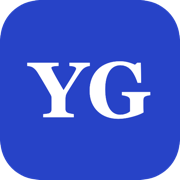
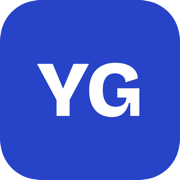
feat: başlık ailesi Bricolage Grotesque'e geçti — afiş ağırlığında başlıklar
--serif değişkeni tek noktadan değişti (tarihî ad korundu); hero/forum
manşeti/logo 800 ağırlığa çıktı. Favicon, ikonlar ve og kartı yeni
fontla yeniden üretildi.

diff --git a/index.html b/index.html
@@ -18,7 +18,7 @@
   <meta name="twitter:card" content="summary_large_image">
   <link rel="preconnect" href="https://fonts.googleapis.com">
   <link rel="preconnect" href="https://fonts.gstatic.com" crossorigin>
-  <link href="https://fonts.googleapis.com/css2?family=Besley:ital,wght@0,400..900;1,400..700&family=IBM+Plex+Sans:wght@400;500;600;700&display=swap" rel="stylesheet">
+  <link href="https://fonts.googleapis.com/css2?family=Bricolage+Grotesque:opsz,wght@12..96,400..800&family=IBM+Plex+Sans:wght@400;500;600;700&display=swap" rel="stylesheet">
   <link rel="stylesheet" href="css/styles.css">
   <script type="application/ld+json">{"@context":"https://schema.org","@type":"ItemList","name":"Yan Görev — Oyun İncelemeleri","description":"Kurgusal oyun inceleme dergisi ve topluluk forumu demosu.","itemListElement":[{"@type":"ListItem","position":1,"url":"https://yan-gorev.vercel.app/oyun.html?id=kul-ve-fener","name":"Kül ve Fener incelemesi"},{"@type":"ListItem","position":2,"url":"https://yan-gorev.vercel.app/oyun.html?id=gece-vardiyasi","name":"Gece Vardiyası incelemesi"},{"@type":"ListItem","position":3,"url":"https://yan-gorev.vercel.app/oyun.html?id=pas-ve-pervane","name":"Pas ve Pervane incelemesi"},{"@type":"ListItem","position":4,"url":"https://yan-gorev.vercel.app/oyun.html?id=son-otobus","name":"Son Otobüs incelemesi"},{"@type":"ListItem","position":5,"url":"https://yan-gorev.vercel.app/oyun.html?id=bahcivan-krali","name":"Bahçıvan Kralı incelemesi"},{"@type":"ListItem","position":6,"url":"https://yan-gorev.vercel.app/oyun.html?id=derin-uyku","name":"Derin Uyku incelemesi"},{"@type":"ListItem","position":7,"url":"https://yan-gorev.vercel.app/oyun.html?id=vites","name":"Vites incelemesi"},{"@type":"ListItem","position":8,"url":"https://yan-gorev.vercel.app/oyun.html?id=hoyuk","name":"Höyük incelemesi"},{"@type":"ListItem","position":9,"url":"https://yan-gorev.vercel.app/oyun.html?id=meydan","name":"Meydan incelemesi"},{"@type":"ListItem","position":10,"url":"https://yan-gorev.vercel.app/oyun.html?id=ocakbasi","name":"Ocakbaşı incelemesi"}]}</script>
 </head>

diff --git a/css/styles.css b/css/styles.css
@@ -20,7 +20,8 @@
   --rozet-zemin: rgba(20, 26, 49, 0.85);
   --rozet-metin: #ffffff;
   --metin-yumusak: #c3c9e6;
-  --serif: "Besley", "Iowan Old Style", Georgia, serif;
+  /* --serif adı tarihsel: artık başlık ailesi Bricolage Grotesque taşıyor. */
+  --serif: "Bricolage Grotesque", "Avenir Next Condensed", "Arial Black", sans-serif;
   --grotesk: "IBM Plex Sans", "Helvetica Neue", Arial, sans-serif;
   --govde-olcu: 68ch;
   --sayfa-genislik: 1340px;
@@ -183,7 +184,7 @@ html[data-tema="gunduz"] .site-header {
 
 .logo {
   font-family: var(--serif);
-  font-weight: 700;
+  font-weight: 800;
   font-size: 1.7rem;
   letter-spacing: -0.01em;
   color: var(--murekkep);
@@ -762,8 +763,8 @@ main {
 .hero h1.dev-baslik {
   font-size: clamp(3.4rem, 13.5vw, 11rem);
   line-height: 0.88;
-  letter-spacing: -0.05em;
-  font-weight: 600;
+  letter-spacing: -0.04em;
+  font-weight: 800;
   max-width: none;
   margin: 0;
 }
@@ -930,7 +931,7 @@ main {
 
 .forum-basligi h1 {
   font-family: var(--serif);
-  font-weight: 700;
+  font-weight: 800;
   font-size: clamp(2.6rem, 6.5vw, 4.6rem);
   line-height: 1.02;
   letter-spacing: -0.02em;

diff --git a/forum.html b/forum.html
@@ -18,7 +18,7 @@
   <meta name="twitter:card" content="summary_large_image">
   <link rel="preconnect" href="https://fonts.googleapis.com">
   <link rel="preconnect" href="https://fonts.gstatic.com" crossorigin>
-  <link href="https://fonts.googleapis.com/css2?family=Besley:ital,wght@0,400..900;1,400..700&family=IBM+Plex+Sans:wght@400;500;600;700&display=swap" rel="stylesheet">
+  <link href="https://fonts.googleapis.com/css2?family=Bricolage+Grotesque:opsz,wght@12..96,400..800&family=IBM+Plex+Sans:wght@400;500;600;700&display=swap" rel="stylesheet">
   <link rel="stylesheet" href="css/styles.css">
 </head>
 <body>

diff --git a/ipuclari.html b/ipuclari.html
@@ -18,7 +18,7 @@
   <meta name="twitter:card" content="summary_large_image">
   <link rel="preconnect" href="https://fonts.googleapis.com">
   <link rel="preconnect" href="https://fonts.gstatic.com" crossorigin>
-  <link href="https://fonts.googleapis.com/css2?family=Besley:ital,wght@0,400..900;1,400..700&family=IBM+Plex+Sans:wght@400;500;600;700&display=swap" rel="stylesheet">
+  <link href="https://fonts.googleapis.com/css2?family=Bricolage+Grotesque:opsz,wght@12..96,400..800&family=IBM+Plex+Sans:wght@400;500;600;700&display=swap" rel="stylesheet">
   <link rel="stylesheet" href="css/styles.css">
 </head>
 <body>

diff --git a/konu.html b/konu.html
@@ -18,7 +18,7 @@
   <meta name="twitter:card" content="summary_large_image">
   <link rel="preconnect" href="https://fonts.googleapis.com">
   <link rel="preconnect" href="https://fonts.gstatic.com" crossorigin>
-  <link href="https://fonts.googleapis.com/css2?family=Besley:ital,wght@0,400..900;1,400..700&family=IBM+Plex+Sans:wght@400;500;600;700&display=swap" rel="stylesheet">
+  <link href="https://fonts.googleapis.com/css2?family=Bricolage+Grotesque:opsz,wght@12..96,400..800&family=IBM+Plex+Sans:wght@400;500;600;700&display=swap" rel="stylesheet">
   <link rel="stylesheet" href="css/styles.css">
 </head>
 <body>

diff --git a/oyun.html b/oyun.html
@@ -18,7 +18,7 @@
   <meta name="twitter:card" content="summary_large_image">
   <link rel="preconnect" href="https://fonts.googleapis.com">
   <link rel="preconnect" href="https://fonts.gstatic.com" crossorigin>
-  <link href="https://fonts.googleapis.com/css2?family=Besley:ital,wght@0,400..900;1,400..700&family=IBM+Plex+Sans:wght@400;500;600;700&display=swap" rel="stylesheet">
+  <link href="https://fonts.googleapis.com/css2?family=Bricolage+Grotesque:opsz,wght@12..96,400..800&family=IBM+Plex+Sans:wght@400;500;600;700&display=swap" rel="stylesheet">
   <link rel="stylesheet" href="css/styles.css">
 </head>
 <body>

diff --git a/uye.html b/uye.html
@@ -18,7 +18,7 @@
   <meta name="twitter:card" content="summary_large_image">
   <link rel="preconnect" href="https://fonts.googleapis.com">
   <link rel="preconnect" href="https://fonts.gstatic.com" crossorigin>
-  <link href="https://fonts.googleapis.com/css2?family=Besley:ital,wght@0,400..900;1,400..700&family=IBM+Plex+Sans:wght@400;500;600;700&display=swap" rel="stylesheet">
+  <link href="https://fonts.googleapis.com/css2?family=Bricolage+Grotesque:opsz,wght@12..96,400..800&family=IBM+Plex+Sans:wght@400;500;600;700&display=swap" rel="stylesheet">
   <link rel="stylesheet" href="css/styles.css">
 </head>
 <body>

diff --git a/404.html b/404.html
@@ -9,7 +9,7 @@
   <link rel="icon" href="favicon.svg" type="image/svg+xml">
   <link rel="preconnect" href="https://fonts.googleapis.com">
   <link rel="preconnect" href="https://fonts.gstatic.com" crossorigin>
-  <link href="https://fonts.googleapis.com/css2?family=Besley:ital,wght@0,400..900;1,400..700&family=IBM+Plex+Sans:wght@400;500;600;700&display=swap" rel="stylesheet">
+  <link href="https://fonts.googleapis.com/css2?family=Bricolage+Grotesque:opsz,wght@12..96,400..800&family=IBM+Plex+Sans:wght@400;500;600;700&display=swap" rel="stylesheet">
   <link rel="stylesheet" href="css/styles.css">
 </head>
 <body>
